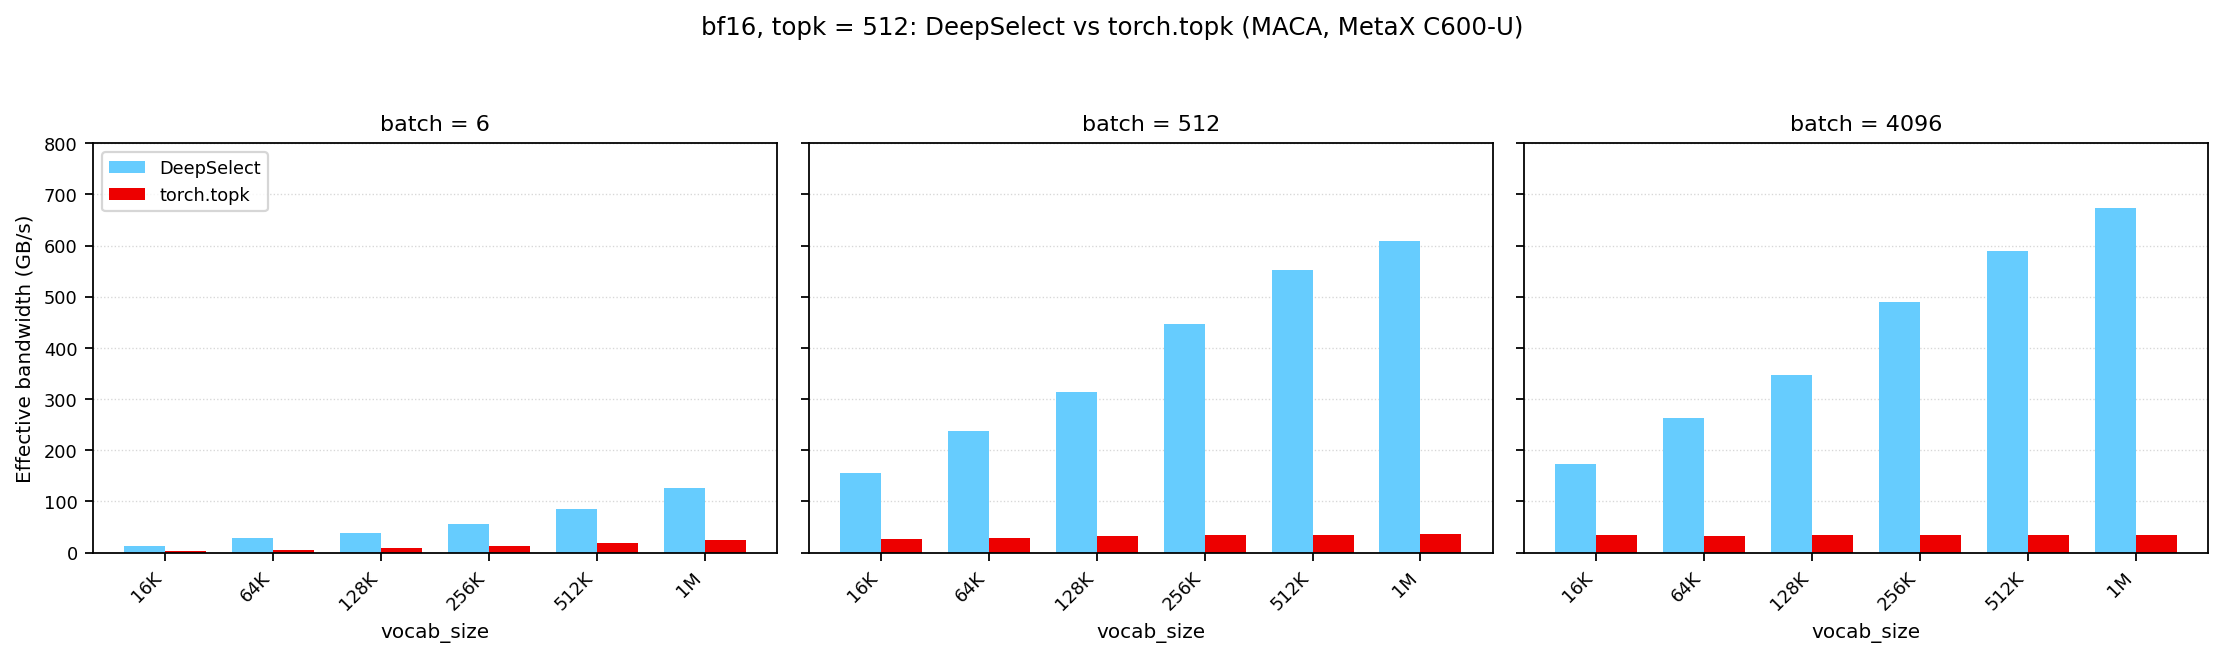
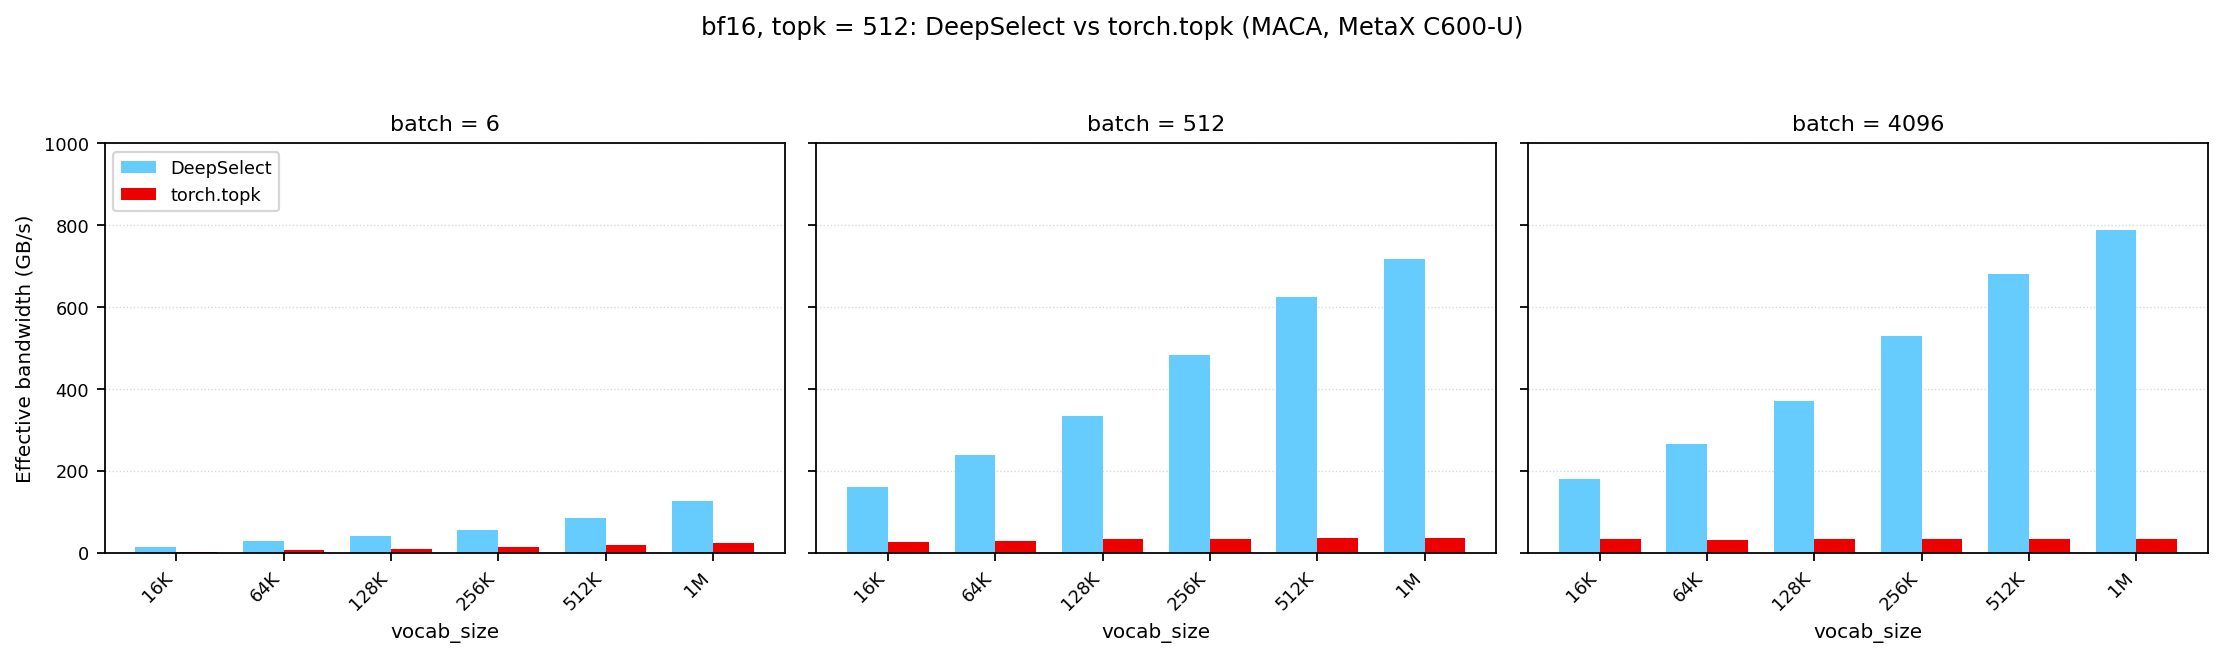
docs(bf16): the ADJ4 occupancy answer from the driver, and its clean snapshot
The register reading in 14d66b8 ("48 -> 62 MT, 2 CTAs/SM") was one symbol's
--resource-usage line. Two measurements supersede it, both on xcore1600:

- TU max over the bf16 row instances, block_512 and block_1024 TUs alike:
  50 MT / 64 ST -> 66 MT / 64 ST. The +16 MT is three more live uint4s plus
  bookkeeping.
- cudaOccupancyMaxActiveBlocksPerMultiprocessor at the real dynamic smem
  (radix_smem_bytes: 18432 B k512, 20480 B k1024): 4 CTA/SM at BLOCK 512 and
  2 at BLOCK 1024, the same before and after. A hand division of
  66 MT x 512 threads = 33,792 against 131,072/4 = 32,768 predicts 3; the
  driver answers 4, so the doc records the driver's answer.

Snapshot re-check on a clean session (2026-10-21 06:39, device 1,
./run_bench.sh --skip-gate --set-baseline): maca_c 0 regressed / 49 improved
/ 85 noise, total 121154.0 -> 112043.3 us (-7.52%), largest -16.0%
(b256-v1048576-k512) and -14.5% on the flagship b4096-v1048576-k512. The
torch control totals +0.07%; its 25 one-directional small-cell moves are the
known session drift, and maca_c has no cell past the 3% noise band. Baseline
repointed to perf_data/MetaX_C600-U/20261021_063653, and both assets/*.png
regenerated from that record (bf16 peak 787.6 GB/s, matching the in-kernel
A/B's 786).

Gate: the code change's correctness gate is the 342-case maca_c sample on
this artifact (All 342 cases passed, 0 check_fail / 0 crash, OOM skips).
--skip-gate omitted the 549-case correctness stage and the official perf
[…]

diff --git a/docs/experiments/20261021_adjacent_walk/README.md b/docs/experiments/20261021_adjacent_walk/README.md
@@ -110,18 +110,33 @@ group g 的第 i 次迭代:块 [4g + 4*step*i, +4)
 
 ## 5. 寄存器与占用
 
-单 TU 实测(`value_bf16_outidx_i32_block_1024_si0_rv0_sv0_pre0.cu`,cucc
-`--resource-usage`,xcore1600):
+单 TU 实测(cucc `--resource-usage`,xcore1600;数值是该 TU 里 bf16 行实例
+`topk_kernel_radix<...>` 的最大值,静态 smem 两档都是 4936 B):
 
-| | MT | ST | 静态 smem |
+| TU | HEAD | 本改动 |
+| --- | ---: | ---: |
+| `value_bf16_outidx_i32_block_1024_si0_rv0_sv0_pre0.cu` | 50 MT / 64 ST | 66 MT / 64 ST |
+| `value_bf16_outidx_i32_block_512_si0_rv0_sv0_pre0.cu` | 50 MT / 64 ST | 66 MT / 64 ST |
+
++16 MT 是三个额外 uint4(12 个寄存器)加簿记。(本文早先记的"48 → 62"是
+block_1024 TU 里 `pre0`/k512 那一个符号的读数;TU 的最大值两档都是 50 → 66。)
+
+**占用没有掉,而且这是问驱动问出来的,不是手算的。** 同一支探针
+(`cudaOccupancyMaxActiveBlocksPerMultiprocessor`,动态 smem 由
+`radix_smem_bytes(topk, false, true)` 给出)在两棵树上各跑一遍,pre0/pre1
+两支都在内:
+
+| 配置 | 动态 smem | HEAD | 本改动 |
 | --- | ---: | ---: | ---: |
-| HEAD | 48 | 60 | 4936 B |
-| 本改动 | 62 | 60 | 4936 B |
+| BLOCK 512, k512 | 18432 B | 4 | **4** |
+| BLOCK 512, k1024 | 20480 B | 4 | **4** |
+| BLOCK 1024, k512 | 18432 B | 2 | **2** |
+| BLOCK 1024, k1024 | 20480 B | 2 | **2** |
 
-+14 MT 是三个额外 uint4(12 个寄存器)加簿记。**占用没有掉**:驱动对真实核
-(`topk_kernel_radix<TopkRadixConfig<maca_bfloat16,int32_t,1024,false,false,false,{false,true}>>`,
-动态 smem 18432 B)答 `cudaOccupancyMaxActiveBlocksPerMultiprocessor = 2`,
-pre0/pre1 两支都是 2——128 KiB 寄存器堆正好装下 2 × 1024 × 64。
+旗舰格(b4096 的长行)按 `radix_block_for` 走 BLOCK 512,常驻仍是
+4 CTA/SM;BLOCK 1024 那档也没动。注意 66 MT 按
+`66 × 512 = 33792 > 131072 / 4 = 32768` 手算会得出 3,而驱动答 4——所以这里
+记的是驱动的答案,不是除法的答案。
 
 ## 6. 核内 A/B
 
@@ -184,3 +199,25 @@ python3 tools/ab_snapshot.py \
 因此这个改动的 roofline 判词是**地址局部性**:它不是浮点、不是树、不是原子、
 也不是 MLP——相邻四块在行内是连续 512 B,BH 格子的整格速率从 673 GB/s 抬到
 786 GB/s(1545 GB/s 读墙的 44% → 51%,其余是 pass 2 与 collect)。
+
+### 快照级复核(2026-10-21 06:39,干净 session)
+
+`./run_bench.sh --skip-gate --set-baseline --device 1`(pod 的剩余寿命不够
+跑完它那条 549 例的 correctness 阶段。本树的正确性门是 `tests/test.py
+--backend maca_c` 的一次抽样:**`All 342 cases passed!`**,0 `check_fail` /
+0 `crash`,其余是 OOM `skip`。)snapshot 阶段把新树与旧基线
+`20261021_032150`(HEAD 的产物)对起来:
+
+| 后端 | 回退 / 改善 / 噪声 | 总量 |
+| --- | --- | ---: |
+| `maca_c` | **0 / 49 / 85** | 121154.0 → 112043.3 us(**−7.52%**) |
+| `torch`(对照) | 25 / 0 / 99(+10 不可比) | 1572415.2 → 1573489.9 us(**+0.07%**) |
+
+最大单格 −16.0%(b256-v1048576-k512)、−15.4%(b128-v1048576-k2048)、
+−14.5%(旗舰 b4096-v1048576-k512)。对照后端总量 +0.07%,但小格有 25 个
+3–8% 的漂移——这是"小格是 session"的已知现象(见 `CLAUDE.md` 的两个比较器),
+`maca_c` 侧没有一个格回退超过 3%。
+
+新基线 = `perf_data/MetaX_C600-U/20261021_063653`,
+`assets/perf_bf16_maca_MetaX_C600-U.png` 与 fp32 那张都从它重画(bf16 峰值
+787.6 GB/s,与 §6 的 786 一致)。
